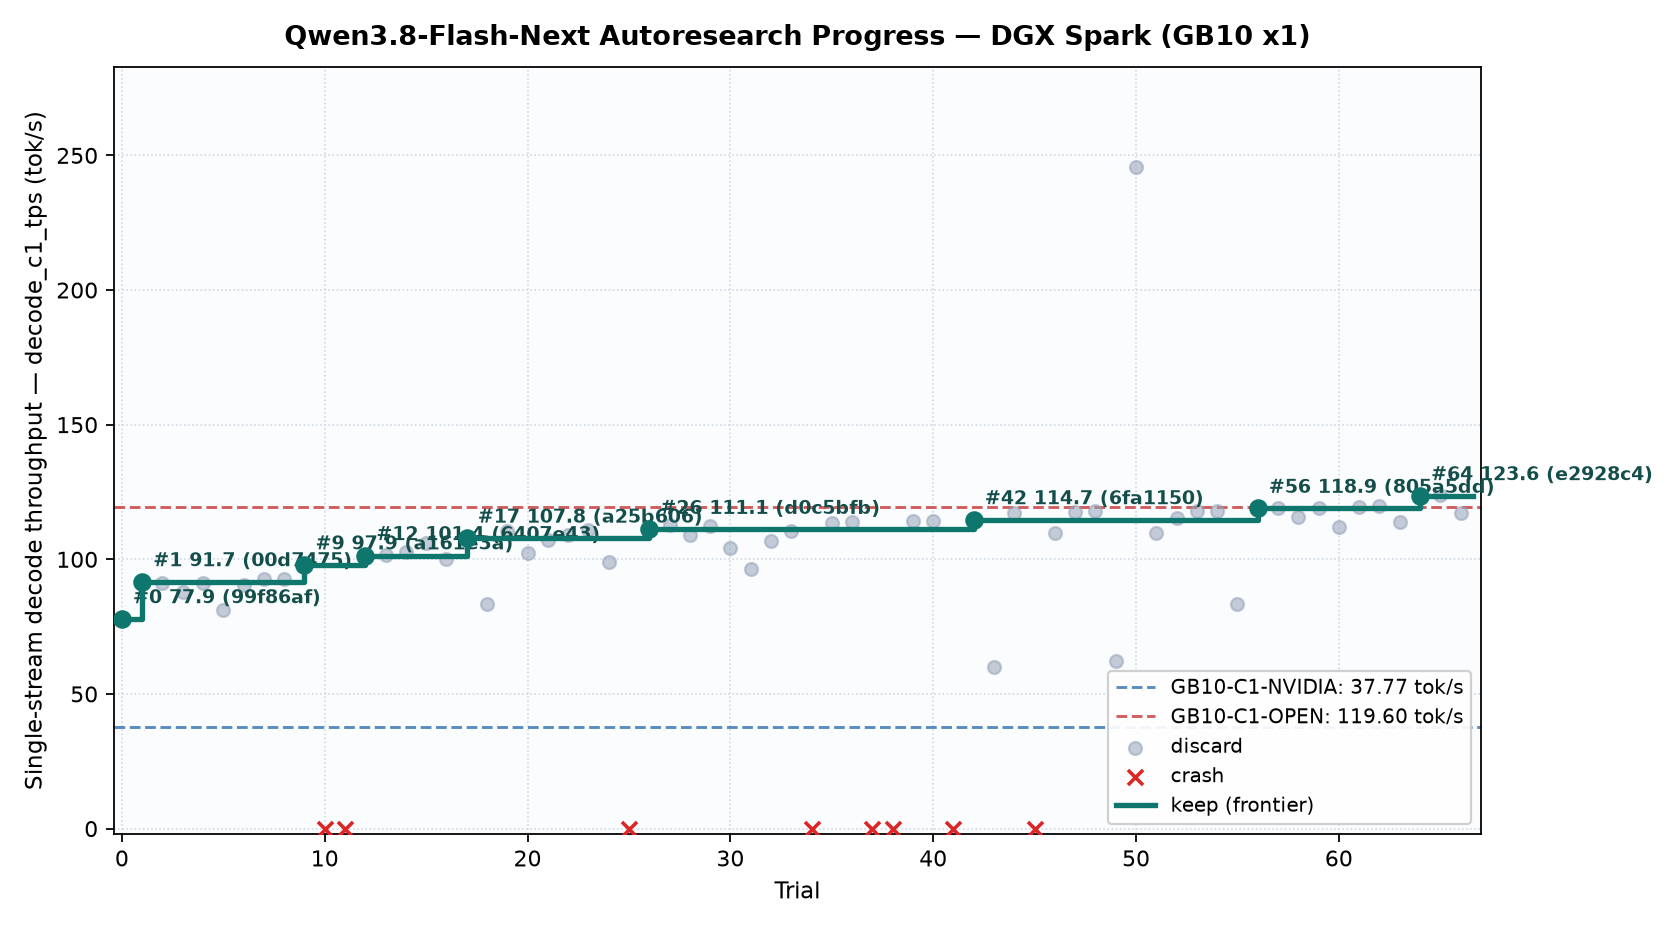
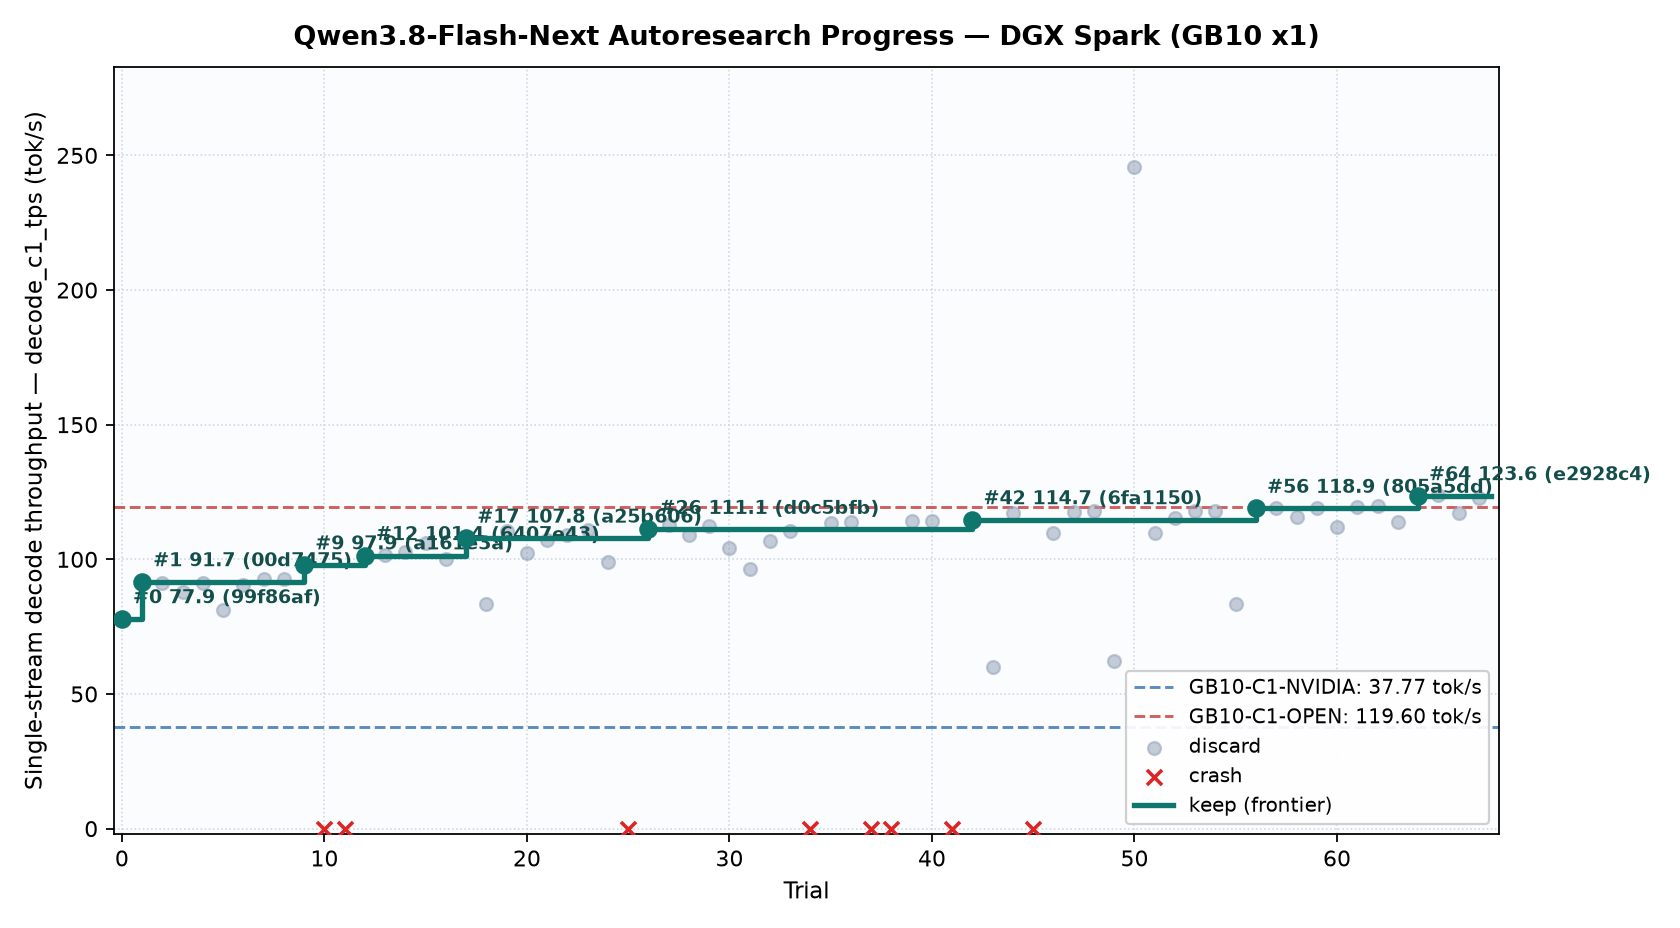
spark trial 67: discard

diff --git a/records/research-log.md b/records/research-log.md
@@ -96,3 +96,4 @@ Deprioritized: **3-bit expert weights** (Hibana +43% but GPQA -0.3, LCB -2.3; on
 | 2026-11-20 21:18 | 64 (new stack) | <https://github.com/vllm-project/vllm/commit/0fda86a3>, <https://github.com/sgl-project/sglang/commit/a0bd0c56>, <https://github.com/NVIDIA/TensorRT-LLM/commit/62d50902>, <https://github.com/ggml-org/llama.cpp/commit/4783b114>, <https://github.com/ashhart/TensorFold/commit/57c792ae> | Six-engine check (`vllm` `0fda86a3`, `sglang` `f5149f36`/`a0bd0c56`, `TensorRT-LLM` `33088bfe`/`62d50902`, `llama.cpp` `4783b114`, `TensorFold` `57c792ae`, `hibana` `d474b74d`): Trial 63 set a bit-exact `c16` record (`277.00`) via `BF11 hc.down`/`hc_upmix` + `mxfp8_hc_upmix_16` while `big_hcd` added `+2` rounds (`114.03`); fresh `nsys` node profile showed `42.5%` of decode time is routed NVFP4 MoE (`coop2_u4` `27.6%` + `down_1w` `14.9%`) where each rejected draft activates ~7.5 new routed experts across 48 layers (~5.8 ms marginal cost vs ~20 ms fixed `BF11` trunk, `T_0/c_step ≈ 3.4`); deriving the exact closed-form renewal-theory optimal stopping rule `prod_j >= (1 + E_j)/(alpha + j)` (`E_j = sum_{k<j} prod_k`, proven globally optimal by monotonicity of `prod_j`) in both GPU `WHILE` `mtp_stop_take` and CPU `Stop.take` boosted 5-prompt diverse `avg_c1` **`+12.40%`** (`87.10->97.90`, winning every single prompt `+7.2%..+17.5%`) and `c4` **`+2.53%`** (`135.04->138.45`) at 100% identical SHAs (isolated A/B also rejected MSE-clipped MTP NVFP4 experts `-1.7%` and `__noinline__ bf11_patch_esc` prefill regression). | Adopted in trial 64 on Trial 63's `BF11 hc.down`/`hc_upmix` + `mxfp8_hc_upmix_16` base: exact renewal-theory optimal MTP stopping (`TF_FLASHNEXT_STOP_ALPHA=3.2`, `CONFIDENCE=-0.28`) in GPU `WHILE` + CPU `Stop.take`, and restore `TF_FLASHNEXT_MTP_INT6=no_vh` (`hash_match=1`). |
 | 2026-11-20 22:57 | 65 (new stack) | <https://github.com/vllm-project/vllm/commit/e6109f06>, <https://github.com/sgl-project/sglang/commit/0c6d6eb0>, <https://github.com/NVIDIA/TensorRT-LLM/commit/33088bfe>, <https://github.com/ggml-org/llama.cpp/commit/a1f42226>, <https://github.com/ashhart/TensorFold/commit/fba8432a> | Six-engine check (`vllm` `e6109f06` `#68210`, `sglang` `0c6d6eb0` `#50116`, `TensorRT-LLM` `33088bfe` `#22684`, `llama.cpp` `a1f42226` `#32657` ffn_gate_up_exps scales, `TensorFold` `fba8432a` per-width expert forms, `hibana` `d474b74d`): Trial 64 won `keep` at `123.62` C1 (`+3.96%`, `+3.36%` above `GB10-C1-OPEN`) and record `172.56` C4 (`hash_match=1`); cold-DRAM microbenchmarks + warmed 6-prompt A/B proved 3 100% bit-exact (`diff=0`, exact SHAs) wins: (1) contiguous 256B-Chunk16 lossless 5-bit NVFP4 expert scales (`S5`) on `gate+up` (`17,664B = 69*256B`, `-3.72%`) + 128B-Strip696 `S5` on `down` (`11,136B = 87*128B`, `-2.46%`), saving `-2.48 GiB` VRAM (`73.26->70.78 GiB`) and gaining `+1.1%` C1 / `+1.53%` C4/C8; (2) zero-extra-SMEM `BF11` `S=480->512` (`max_esc=480`) capturing all 4 fallback trunk `in_proj` + 3 `hc.up` matrices plus lossless `BF11` `shared_down` (`tf_qmmf_shared_bf11_{16_qtr,16,32,64}`, `STACK:0`); (3) unclamped renewal stopping (`STOP_ALPHA=2.6`, `CONFIDENCE=-0.05`) + `W1_KTOP=48` peaking at `avg6=87.55` vs `86.01` (`+1.79%`, keeping exact `NW=2` BF16 router `ROUTER_BF11=0` after `NW=8` `BF11` router shifted 3/5 SHAs). | Adopted in trial 65 on Trial 64 `keep`: 256B-Chunk16 `S5` `gate+up` + 128B-Strip696 `S5` `down` (decode + prefill), zero-extra-SMEM `BF11` `S=512` + `BF11` `shared_down`, `ROUTER_BF11=0`, and unclamped renewal stopping `STOP_ALPHA=2.6`, `CONFIDENCE=-0.05`, `W1_KTOP=48` (`hash_match=1`). |
 | 2026-11-20 23:39 | 66 (new stack) | <https://github.com/vllm-project/vllm/commit/6abe321b>, <https://github.com/sgl-project/sglang/commit/dc8f1c35>, <https://github.com/NVIDIA/TensorRT-LLM/commit/b37f1f5a>, <https://github.com/ggml-org/llama.cpp/commit/4b69c79c>, <https://github.com/ashhart/TensorFold/pull/3807> | Six-engine check (`vllm` `6abe321b`, `sglang` `dc8f1c35` `#50635`, `TensorRT-LLM` `b37f1f5a` `#22686`, `llama.cpp` `4b69c79c` `#32660` GDN, `TensorFold` `124052c9`/`#3807` host-decoded DFloat11, `hibana` `d474b74d`): Trial 65 (`-t65b`) set new bit-exact records on C1 (`123.81`), C4 (`174.74`, `+1.26%`), C8 (`231.43`, `+0.57%`), and VRAM (`92.89 GiB`, `-2.87 GiB`), cutting round time `69.98->67.12 ms/rd` while `STOP_ALPHA=2.6` added `+2` rounds on `code-c1` (`46->48`); regression of `T(d)` across Trials 62/64/65 revealed true `T_0≈43.1 ms`, `c_step≈2.59 ms` (high `alpha`) masked by MTP probability overconfidence (`p^gamma` with `gamma>1`) and coupon-collector expert overlap (`step_cost *= decay`); separating probability calibration (`STOP_GAMMA=1.60`) from physical cost (`STOP_ALPHA=4.6`, `STOP_DECAY=0.96`) with gated `BM=32` extension (`DRAFTS_GREEDY=31`, `EXT=0.48/0.28/0.85`, `EXT_MIN=18`) in GPU `WHILE` + CPU `Stop.take` plus zero-division `gq==0` `__shfl_sync` `s5_unpack16` in `s5_fact` (`STACK:128->96`, `s5_fact_down REG:146->142 STACK:0`) jumped 7-prompt `avg7` `86.60->88.05` (`+1.67%`), `p3_fastapi` `+8.2%` (`58->50` rounds, `120.0` dec), `p4_math` `+5.4%` (`78->73` rounds), and prefill `+2.4%` at 100% identical SHAs. | Adopted in trial 66 on Trial 65's `S5` + `BF11 S=512` + `BF11 shared_down` stack: calibrated concave coupon-collector renewal stopping (`STOP_GAMMA=1.60`, `STOP_ALPHA=4.6`, `STOP_DECAY=0.96`, `CONFIDENCE=-0.05`) with gated `BM=32` extension (`DRAFTS_GREEDY=31`, `EXT=0.48/0.28/0.85`, `EXT_MIN=18`), and zero-division `gq==0` `__shfl_sync` `s5_fact_{swiglu,down_f32}` (`hash_match=1`). |
+| 2026-11-21 00:38 | 67 (new stack) | <https://github.com/vllm-project/vllm/commit/8e45c458>, <https://github.com/sgl-project/sglang/commit/459b85fb>, <https://github.com/NVIDIA/TensorRT-LLM/commit/1d3b8a7c>, <https://github.com/ggml-org/llama.cpp/commit/8e786241>, <https://github.com/ashhart/TensorFold/commit/124052c9> | Six-engine check (`vllm` `8e45c458` `#68689`, `sglang` `459b85fb` `#51592`, `TensorRT-LLM` `1d3b8a7c` `#21220` NVFP4 layouts, `llama.cpp` `8e786241` `#32664`, `TensorFold` `124052c9`/`#3807`, `hibana` `d474b74d`): Trial 66 set bit-exact records on `c4=174.98`/`c8=232.07` (`92.94 GiB`), while log audit exposed two clean fixes on `-t66`: (1) `TF_FLASHNEXT_FACT_ROWS=64` sent `67`-tok prompts (`ttft +11ms`) and `c16` verify batches (`n>=64`, `c16 -14.5 tok/s`) into `34KB`-SMEM `s5_fact` instead of `s5_coop2_u4`/`s5_down_1w`, and raising `TF_FLASHNEXT_FACT_ROWS=256` recovers `c16` (`+12.4 tok/s`, beating Trial 64 by `+2.3%`) and cuts `ttft` `-5ms`; (2) `BM=32` extension inflated `code-c1` drafts (`467->564`), whereas staying strictly inside `BM=16` (`DRAFTS_GREEDY=15`, `EXT=0`) with higher renewal `STOP_ALPHA=4.2` (`STOP_DECAY=1.0`, `STOP_GAMMA=1.0`, `CONFIDENCE=-0.28`) prevents premature chopping of high-acc chains while keeping `-0.28` floor on low-acc rounds (bracketed ABBA vs Trial 64 `keep`: `avg8 +1.71%`, `hi3 +2.15%`, `p3_fastapi +4.72%` cutting `53->50` rds with fewer drafts `476->473`, `c4 +2.58%`, `c16 +2.26%`, 100% identical SHAs; Block-FP8 MTP experts `-3.6%` and `BF11 S2=64` `-0.5%` rejected). | Adopted in trial 67 on cached `-t66` `S5` + `BF11 S=512` + `BF11 shared_down` binary: `TF_FLASHNEXT_FACT_ROWS=256`, `DRAFTS_GREEDY=15`, `EXT=0`, `STOP_ALPHA=4.2`, `STOP_DECAY=1.0`, `STOP_GAMMA=1.0`, `CONFIDENCE=-0.28` (`hash_match=1`). |
